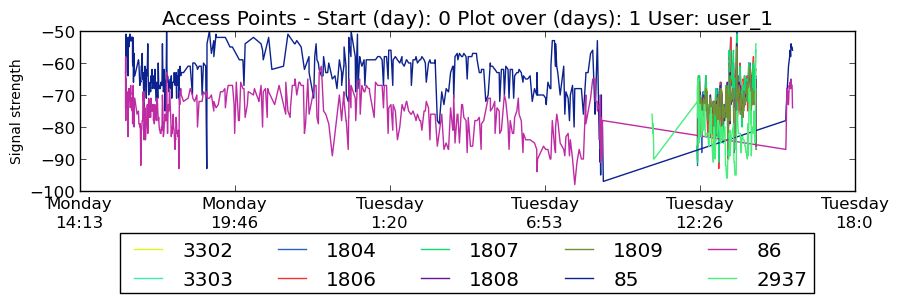
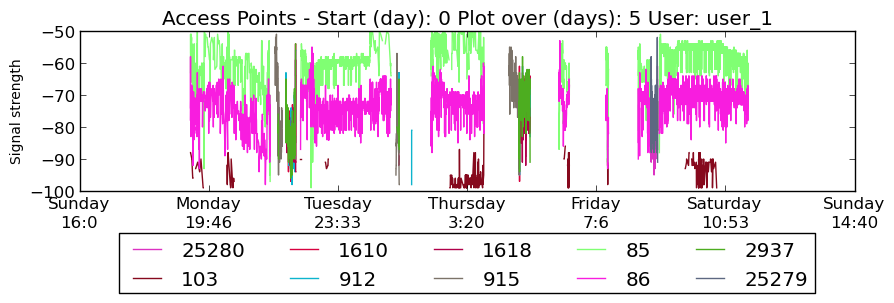
Droped lines in plot of bssid over time for the cases when there's too much time between aparitions of same bssid. Graphic works now

diff --git a/graphics/bssids_over_time_plot.py b/graphics/bssids_over_time_plot.py
@@ -14,6 +14,7 @@ import datetime
 
 NO_SECS_PER_HOUR = 60*60
 HOURS_BETWEEN_TICKS = 2
+TIME_BEFORE_INTERRUPT = 60*30 # 30 mins
 
 week   = {0:'Sunday', 1:'Monday', 2:'Tuesday', 3:'Wednesday', 4:'Thursday',  5:'Friday', 6:'Saturday'}
 
@@ -38,27 +39,33 @@ def plot_for_bssid(color_to_use, data_to_plot, username, start_day, days_to_cons
         
     """ data editing and plotting for each bssid over the given time"""
     for key in data_to_plot.iterkeys():
-        x_time_list = data_to_plot[key][0]
-        y_rssi_list = data_to_plot[key][1]
-        
-        if len(x_time_list)!=len(y_rssi_list):
-            print("ERROR!")
-            return -1
-        
-        time_rssi_list = []
-        for idx, val in enumerate(x_time_list):
-            time_rssi_list.append((val,y_rssi_list[idx]))
-        
-        # need to sort them
-        time_rssi_list = sorted(time_rssi_list, key=lambda x: x[0])
-        
-        x_sorted_list = []
-        y_sorted_list = []
-        for elem in time_rssi_list:
-            x_sorted_list.append(elem[0])
-            y_sorted_list.append(elem[1])
-                
-        ax.plot(x_sorted_list, y_sorted_list, '-', color=color_to_use[key], label=key)
+        first = True
+        for list_elements in data_to_plot[key]:
+            x_time_list = list_elements[0]
+            y_rssi_list = list_elements[1]
+            
+            if len(x_time_list)!=len(y_rssi_list):
+                print("ERROR!")
+                return -1
+            
+            """time_rssi_list = []
+            for idx, val in enumerate(x_time_list):
+                time_rssi_list.append((val,y_rssi_list[idx]))
+            
+            # need to sort them
+            time_rssi_list = sorted(time_rssi_list, key=lambda x: x[0])
+            
+            x_sorted_list = []
+            y_sorted_list = []
+            for elem in time_rssi_list:
+                x_sorted_list.append(elem[0])
+                y_sorted_list.append(elem[1])"""
+            # the first time is the only time when we put a label
+            if first == False:
+                ax.plot(x_time_list, y_rssi_list, '-', color=color_to_use[key])
+            elif first == True:
+                ax.plot(x_time_list, y_rssi_list, '-', color=color_to_use[key], label=key)
+                first = False
 
     # change labels
     locs, labels = plt.xticks()
@@ -84,16 +91,33 @@ def prepared_data_to_plot_for_each_bssid(user_file, start_day, days_to_consider,
     username = user_file    
     data_to_plot = dict()
     
-    for key in bssid_occurences.iterkeys():
+    for mkey in bssid_occurences.iterkeys():
         time_ticks_list = []
         strength_list = []
         
-        for x in bssid_occurences[key]:
-            time_ticks_list.append(x[0])
-            strength_list.append(x[1])
-    
+        data_to_plot[mkey] = []
+        
+        # sort ocurrences for current bssid based on time
+        bssid_occurences[mkey] = sorted(bssid_occurences[mkey], key=lambda x: x[0])
+        
+        for x in bssid_occurences[mkey]:
+            # if first in section or stil part of the same section
+            if len(time_ticks_list) == 0 or x[0] - time_ticks_list[len(time_ticks_list)-1] < TIME_BEFORE_INTERRUPT:
+                time_ticks_list.append(x[0])
+                strength_list.append(x[1])
+            else:
+                # save the section until here
+                data_to_plot[mkey].append((time_ticks_list, strength_list))
+                # reset lists
+                time_ticks_list = []
+                strength_list = []
+                # add current
+                time_ticks_list.append(x[0])
+                strength_list.append(x[1])
+                
+        # add last section
         # each bssid will have 2 list (time list and list with strength for bssid at that time)
-        data_to_plot[key] = (time_ticks_list, strength_list)
+        data_to_plot[mkey].append((time_ticks_list, strength_list))
     
     print("Data for user "+user_file+" prepared for plotting. Moving on to actually plotting...")            
     plot_for_bssid(colors, data_to_plot, username, start_day, days_to_consider)#, time_list)
@@ -125,4 +149,4 @@ def prepare_data_and_start_plot(user_file, start_day, days_to_consider, n_best_s
     print("Data for user "+user_file+" retrieved. Moving on to preparing the data for plotting...")
     prepared_data_to_plot_for_each_bssid(user_file, start_day, days_to_consider, bssid_occurences, color_codes)#, time_list)
     
-prepare_data_and_start_plot("user_1",0,1,-1,10)
+prepare_data_and_start_plot("user_1",0,5,-1,10)
